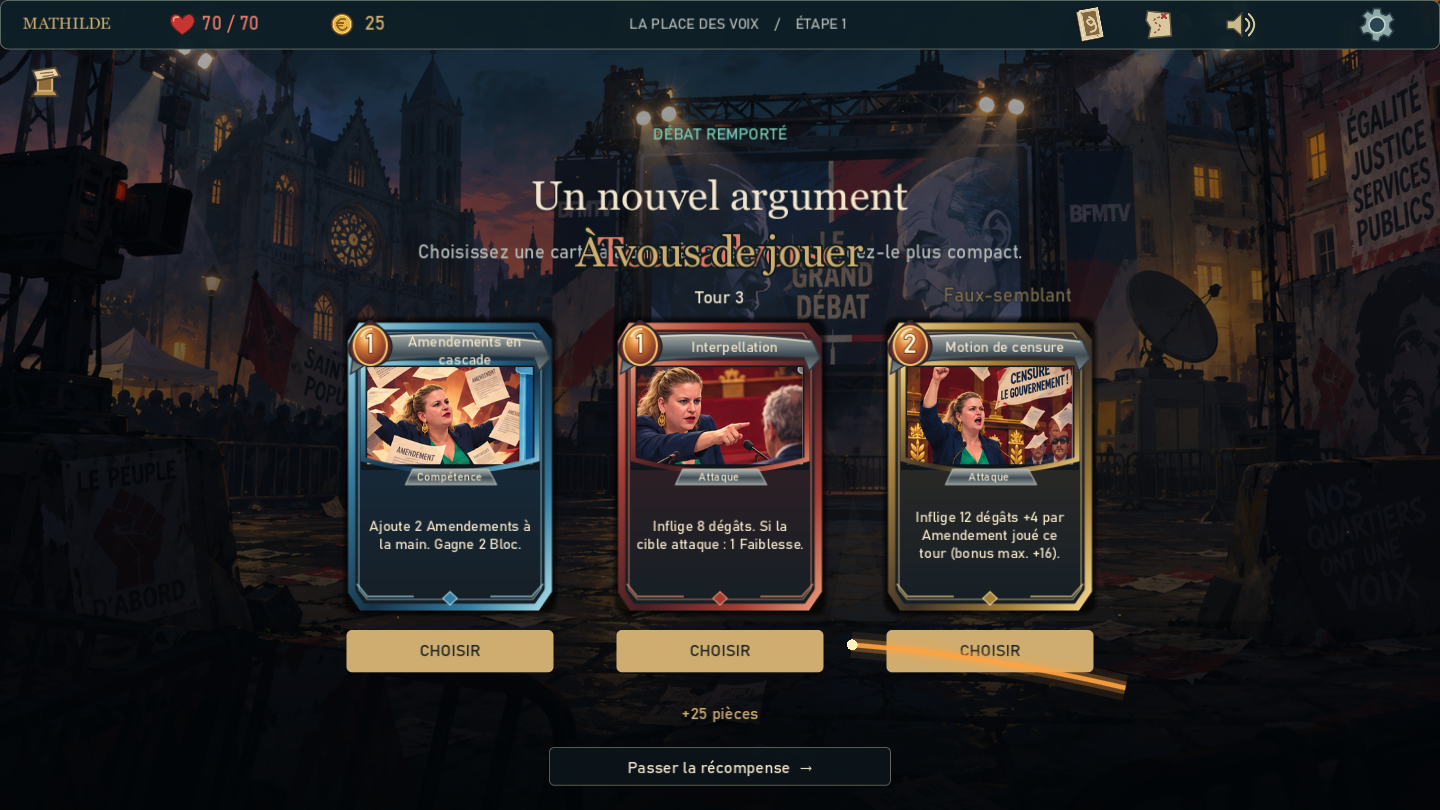
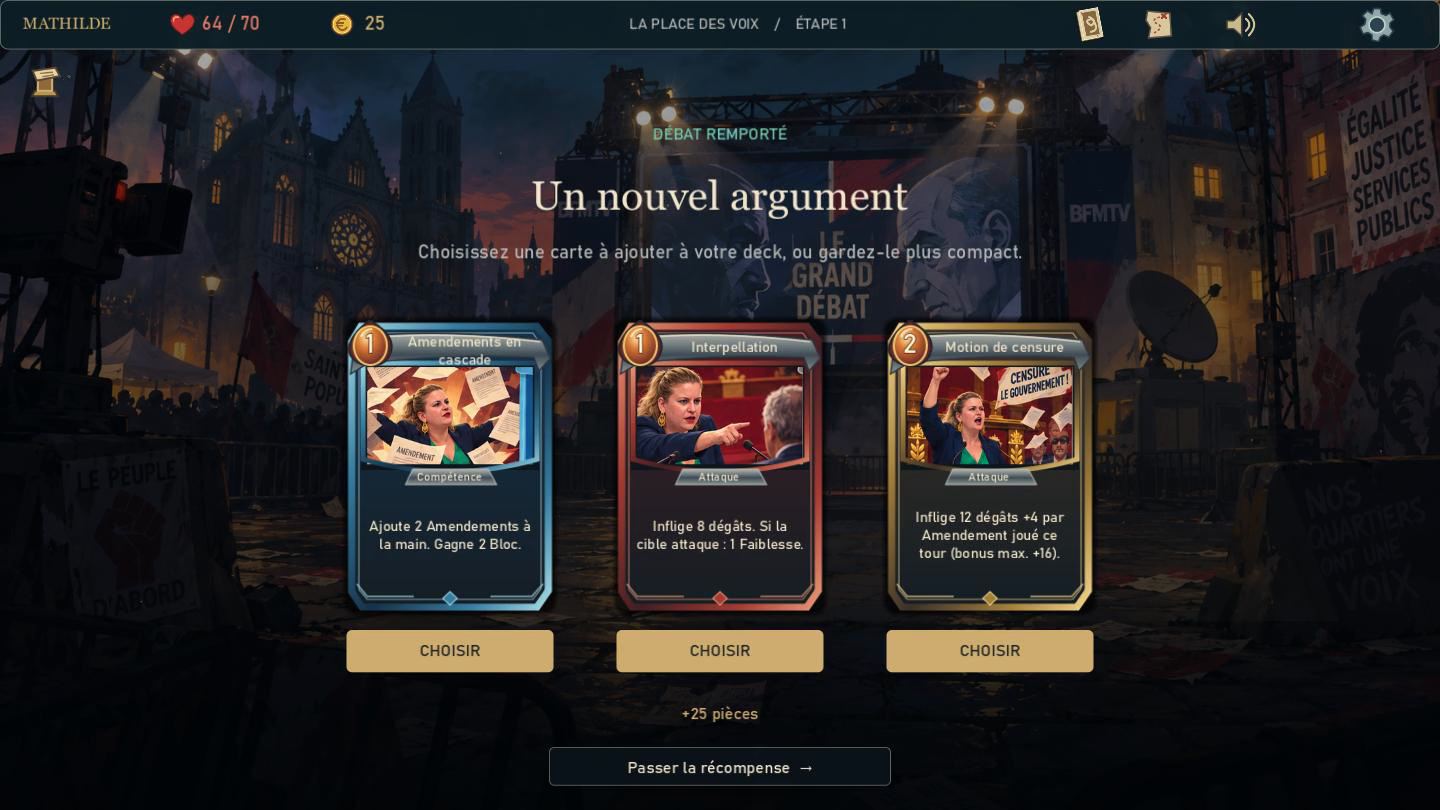
Adopter le titre Slay the Extreme Droite et ajouter le clip de presentation

diff --git a/tools/make_trailer.py b/tools/make_trailer.py
@@ -1,0 +1,109 @@
+"""Render a short game trailer from actual gameplay captures using FFmpeg."""
+from pathlib import Path
+import subprocess
+import shutil
+import os
+
+ROOT = Path(__file__).resolve().parent.parent
+OUT = ROOT / "build" / "trailer"
+OUT.mkdir(parents=True, exist_ok=True)
+for local_name, system_name in (("serif.ttf","georgiab.ttf"),("sans.ttf","bahnschrift.ttf")):
+    font = OUT / local_name
+    if not font.exists():
+        shutil.copyfile(Path(os.environ.get("WINDIR","C:/Windows")) / "Fonts" / system_name, font)
+FFMPEG = shutil.which("ffmpeg") or r"C:\ffmpeg\bin\ffmpeg.exe"
+W, H, FPS = 1920, 1080, 30
+GOLD = "0xe9c88a"
+CREAM = "0xfff4dd"
+seq = 0
+
+def run(*args):
+    subprocess.run([FFMPEG, "-hide_banner", "-loglevel", "error", "-y", *map(str,args)], cwd=ROOT, check=True)
+
+def text(content, y, size=44, color=CREAM, font="sans", x="(w-text_w)/2"):
+    global seq
+    seq += 1
+    p = OUT / f"text-{seq}.txt"
+    p.write_text(content, encoding="utf-8")
+    return f"drawtext=fontfile=build/trailer/{font}.ttf:textfile=build/trailer/{p.name}:fontsize={size}:fontcolor={color}:x={x}:y={y}:shadowcolor=black@0.8:shadowx=2:shadowy=3"
+
+def header(title):
+    return [
+        "drawbox=x=0:y=0:w=iw:h=88:color=0x08131b@0.94:t=fill",
+        "drawbox=x=62:y=30:w=5:h=29:color="+GOLD+":t=fill",
+        text(title,25,33,GOLD,x="88"),
+        "drawbox=x=0:y=1022:w=iw:h=58:color=0x08131b@0.94:t=fill",
+        text("SLAY THE EXTRÊME DROITE",1040,19,x="62"),
+        text("IMAGES DE LA DÉMO  ·  EN DÉVELOPPEMENT",1040,18,"0xb7c2c3",x="w-text_w-62")
+    ]
+
+def segment(index, source, start, duration, filters, still=False, zoom=False):
+    name=OUT/f"segment-{index:02}.mp4"
+    inp=["-loop","1","-framerate",str(FPS),"-i",str(source)] if still else ["-ss",str(start),"-i",str(source)]
+    f=[f"scale={W}:{H}:force_original_aspect_ratio=increase",f"crop={W}:{H}","setsar=1",f"fps={FPS}"]
+    if zoom:
+        f.append(f"zoompan=z='1+on*0.00024':x='iw/2-iw/zoom/2':y='ih/2-ih/zoom/2':d=1:s={W}x{H}:fps={FPS}")
+    f+=filters
+    run(*inp,"-t",duration,"-vf",",".join(f),"-an","-c:v","libx264","-preset","fast","-crf","20","-pix_fmt","yuv420p","-threads","4",name)
+    print(f"Rendered {name.name}: {duration}s",flush=True)
+    return name
+
+intro=[
+    "drawbox=x=0:y=0:w=iw:h=ih:color=0x06131b@0.58:t=fill",
+    text("UN JEU CONÇU PAR KINGRABBIT",195,29,GOLD),
+    text("SLAY THE",300,82,CREAM,"serif"),
+    text("EXTRÊME DROITE",410,118,CREAM,"serif"),
+    "drawbox=x=800:y=575:w=320:h=3:color="+GOLD+":t=fill",
+    text("PRENEZ LA PAROLE. JOUEZ VOS CARTES.",625,33,GOLD),
+    text("DÉMO JOUABLE  ·  EN DÉVELOPPEMENT",901,24,"0xc0ceca"),
+    "fade=t=in:st=0:d=0.35"
+]
+outro=[
+    "drawbox=x=0:y=0:w=iw:h=ih:color=0x06131b@0.76:t=fill",
+    text("SLAY THE EXTRÊME DROITE",205,76,CREAM,"serif"),
+    text("Un jeu conçu par kingrabbit",320,33,GOLD),
+    "drawbox=x=515:y=436:w=890:h=105:color=0xe9c88a:t=fill",
+    text("LA DÉMO EST DISPONIBLE",469,43,"0x14202a"),
+    text("WINDOWS  ·  TÉLÉCHARGEMENT SUR GITHUB",590,26,CREAM),
+    text("github.com/kingrabbit89/slay-the-extreme-droite",648,28,GOLD),
+    text("JEU EN DÉVELOPPEMENT",778,25,"0xbdccca"),
+    text("MUSIQUE  ·  PLANÈTE BRÛLÉE — PLANÈTE BOUM BOUM",921,25,CREAM),
+    "fade=t=out:st=4.0:d=0.5"
+]
+game=ROOT/"build/SlayTheExtremeDroite-combat-v02.mp4"
+clips=[
+    segment(0,ROOT/"demo/assets/grand-debat.png",0,2.8,intro,still=True,zoom=True),
+    segment(1,game,1.7,3.0,header("PRENEZ LA PAROLE")),
+    segment(2,game,4.9,3.0,header("ANTICIPEZ LA RIPOSTE")),
+    segment(3,game,13.8,3.2,header("ENCHAÎNEZ VOS ARGUMENTS")),
+    segment(4,game,27.0,2.0,header("FAITES TOMBER LES RUMEURS")),
+    segment(5,ROOT/"build/trailer/reward.png",0,2.3,header("CONSTRUISEZ VOTRE DECK"),still=True),
+    segment(6,ROOT/"build/trailer/boss.avi",1.25,4.2,header("AFFRONTEZ LA MACHINE À PEUR")),
+    segment(7,ROOT/"demo/assets/grand-debat.png",0,4.5,outro,still=True,zoom=True),
+]
+listing=OUT/"concat.txt"
+listing.write_text("".join(f"file '{p.name}'\n" for p in clips),encoding="utf-8")
+run("-f","concat","-safe","0","-i",listing,"-c","copy",OUT/"picture.mp4")
+final=ROOT/"build/SlayTheExtremeDroite-clip-v0.2.mp4"
+run("-i",OUT/"picture.mp4","-ss","20","-i",ROOT/"demo/assets/audio/planete-brulee.mp3",
+    "-map","0:v:0","-map","1:a:0","-t","25",
+    "-c:v","libx264","-preset","fast","-crf","20",
+    "-vf","format=yuv420p,setsar=1,setparams=range=limited:color_primaries=bt709:color_trc=bt709:colorspace=bt709",
+    "-af","loudnorm=I=-16:TP=-1.5:LRA=9,afade=t=in:st=0:d=0.35,afade=t=out:st=23.5:d=1.5",
+    "-c:a","aac","-b:a","192k","-ar","48000","-movflags","+faststart",
+    "-metadata","title=Slay the Extrême Droite — Clip de la démo",
+    "-metadata","artist=kingrabbit",
+    "-metadata","comment=Jeu en développement. Musique : Planète brûlée — Planète Boum Boum.",
+    final)
+run("-ss","1.8","-i",final,"-frames:v","1",ROOT/"docs/images/clip.jpg")
+preview = (
+    "[0:v]split=4[a][b][c][d];"
+    "[a]trim=start=0.5:end=1.7,setpts=PTS-STARTPTS[a1];"
+    "[b]trim=start=3:end=5,setpts=PTS-STARTPTS[b1];"
+    "[c]trim=start=17:end=19,setpts=PTS-STARTPTS[c1];"
+    "[d]trim=start=21:end=23.4,setpts=PTS-STARTPTS[d1];"
+    "[a1][b1][c1][d1]concat=n=4:v=1:a=0,fps=8,scale=540:-1:flags=lanczos,split[p][q];"
+    "[p]palettegen=stats_mode=diff[pal];[q][pal]paletteuse=dither=bayer:bayer_scale=3"
+)
+run("-i",final,"-filter_complex",preview,"-loop","0",ROOT/"docs/images/clip.gif")
+print(f"TRAILER_OK: {final.name}",flush=True)

diff --git a/tools/package_demo.py b/tools/package_demo.py
@@ -2,18 +2,18 @@ from pathlib import Path
 from zipfile import ZipFile, ZIP_DEFLATED
 
 root = Path(__file__).resolve().parent.parent
-source = root / "build" / "LaTribune"
-archive = root / "build" / "LaTribune-demo-v0.2-Windows.zip"
-guide = """SLAY THE EXTREME DROITE - LA TRIBUNE
+source = root / "build" / "SlayTheExtremeDroite"
+archive = root / "build" / "SlayTheExtremeDroite-demo-v0.2-Windows.zip"
+guide = """SLAY THE EXTREME DROITE
 Un jeu concu par kingrabbit
 Demo 0.2 - Windows 10/11, 64 bits
 
 DEMARRAGE
 1. Extraire tout le ZIP (clic droit > Extraire tout).
-2. Ouvrir le dossier LaTribune.
-3. Double-cliquer sur Jouer.cmd ou LaTribune.exe.
+2. Ouvrir le dossier SlayTheExtremeDroite.
+3. Double-cliquer sur Jouer.cmd ou SlayTheExtremeDroite.exe.
 
-Conserver LaTribune.exe, LaTribune.pck et tribune_godot.dll ensemble.
+Conserver SlayTheExtremeDroite.exe, SlayTheExtremeDroite.pck et tribune_godot.dll ensemble.
 Aucune installation de Godot, Rust ou Slay the Spire 2 n'est necessaire.
 Le jeu fonctionne hors ligne. La musique est incluse.
 
@@ -52,16 +52,16 @@ Le groupe : https://linktr.ee/planeteboumboum
 Credits complets et informations sur les ressources : dossier docs.
 """
 with ZipFile(archive, "w", ZIP_DEFLATED, compresslevel=6) as z:
-    for name in ("LaTribune.exe", "LaTribune.pck", "tribune_godot.dll"):
-        z.write(source / name, "LaTribune/" + name)
+    for name in ("SlayTheExtremeDroite.exe", "SlayTheExtremeDroite.pck", "tribune_godot.dll"):
+        z.write(source / name, "SlayTheExtremeDroite/" + name)
     for p in sorted((source / "docs").rglob("*")):
-        if p.is_file():
-            z.write(p, "LaTribune/" + p.relative_to(source).as_posix())
-    z.writestr("LaTribune/Jouer.cmd", '@echo off\r\ncd /d "%~dp0"\r\nstart "" "%~dp0LaTribune.exe"\r\n')
-    z.writestr("LaTribune/LIRE-MOI.txt", guide.replace("\n", "\r\n").encode("utf-8-sig"))
+        if p.is_file() and "images" not in p.relative_to(source).parts:
+            z.write(p, "SlayTheExtremeDroite/" + p.relative_to(source).as_posix())
+    z.writestr("SlayTheExtremeDroite/Jouer.cmd", '@echo off\r\ncd /d "%~dp0"\r\nstart "" "%~dp0SlayTheExtremeDroite.exe"\r\n')
+    z.writestr("SlayTheExtremeDroite/LIRE-MOI.txt", guide.replace("\n", "\r\n").encode("utf-8-sig"))
 with ZipFile(archive) as z:
     assert z.testzip() is None
     assert not any("/saves/" in n or ".." in Path(n).parts for n in z.namelist())
-    assert len(z.read("LaTribune/LaTribune.pck")) == (source / "LaTribune.pck").stat().st_size
+    assert len(z.read("SlayTheExtremeDroite/SlayTheExtremeDroite.pck")) == (source / "SlayTheExtremeDroite.pck").stat().st_size
     print(f"Archive verified: {archive.name}, {archive.stat().st_size:,} bytes, {len(z.namelist())} files")
     z.extractall(root / "build" / "package-check-v02")

diff --git a/README.md b/README.md
@@ -1,7 +1,6 @@
 <div align="center">
 
 # Slay the Extrême Droite
-### La Tribune
 
 **Un jeu conçu par kingrabbit**
 
@@ -9,9 +8,11 @@ Un deckbuilder politique et satirique : prenez la parole, enchaînez les argumen
 
 **🚧 En développement · Démo jouable v0.2 · Windows 64 bits**
 
-[**🎮 Télécharger la démo**](https://github.com/kingrabbit89/slay-the-extreme-droite/releases/download/v0.2.0/LaTribune-demo-v0.2-Windows.zip) · [**🎬 Voir un combat**](https://github.com/kingrabbit89/slay-the-extreme-droite/releases/download/v0.2.0/LaTribune-combat-v02.mp4) · [**💬 Faire un retour**](https://github.com/kingrabbit89/slay-the-extreme-droite/issues/new/choose)
+[**🎮 Télécharger la démo**](https://github.com/kingrabbit89/slay-the-extreme-droite/releases/download/v0.2.0/SlayTheExtremeDroite-demo-v0.2-Windows.zip) · [**🎬 Voir le clip**](https://github.com/kingrabbit89/slay-the-extreme-droite/releases/download/v0.2.0/SlayTheExtremeDroite-clip-v0.2.mp4) · [**💬 Faire un retour**](https://github.com/kingrabbit89/slay-the-extreme-droite/issues/new/choose)
 
-![Écran titre de Slay the Extrême Droite — La Tribune](docs/images/titre.png)
+[![Aperçu animé de Slay the Extrême Droite — cliquez pour voir le clip avec la musique](docs/images/clip.gif)](https://github.com/kingrabbit89/slay-the-extreme-droite/releases/download/v0.2.0/SlayTheExtremeDroite-clip-v0.2.mp4)
+
+**Cliquez sur l'aperçu pour voir le clip complet : 25 secondes, avec la musique.**
 
 </div>
 
@@ -25,11 +26,11 @@ Un colporteur de rumeurs, un plateau hostile, une halte pour reprendre son souff
 
 ## Essayez la démo
 
-**[Télécharger la démo Windows v0.2 — environ 46 Mo](https://github.com/kingrabbit89/slay-the-extreme-droite/releases/download/v0.2.0/LaTribune-demo-v0.2-Windows.zip)**
+**[Télécharger la démo Windows v0.2 — environ 46 Mo](https://github.com/kingrabbit89/slay-the-extreme-droite/releases/download/v0.2.0/SlayTheExtremeDroite-demo-v0.2-Windows.zip)**
 
 1. Téléchargez le ZIP dans la [release v0.2](https://github.com/kingrabbit89/slay-the-extreme-droite/releases/tag/v0.2.0).
 2. Faites **Extraire tout**.
-3. Ouvrez le dossier **LaTribune**, puis lancez **Jouer.cmd** ou **LaTribune.exe**.
+3. Ouvrez le dossier **SlayTheExtremeDroite**, puis lancez **Jouer.cmd** ou **SlayTheExtremeDroite.exe**.
 
 Conservez les fichiers ensemble. Le jeu est autonome et fonctionne hors ligne : aucune installation de Godot, Rust ou Slay the Spire 2 n'est nécessaire. La musique est incluse.
 
@@ -49,9 +50,9 @@ Conservez les fichiers ensemble. Le jeu est autonome et fonctionne hors ligne : 
 | :---: | :---: |
 | ![Carte jouée et impact sur l'adversaire](docs/images/attaque.png) | ![Choix entre trois cartes après un combat](docs/images/recompense.png) |
 
-**[Regarder 31 secondes de combat réel, avec le son](https://github.com/kingrabbit89/slay-the-extreme-droite/releases/download/v0.2.0/LaTribune-combat-v02.mp4)**
+**[Regarder 31 secondes de combat réel, avec le son](https://github.com/kingrabbit89/slay-the-extreme-droite/releases/download/v0.2.0/SlayTheExtremeDroite-combat-v02.mp4)**
 
-Toutes les images ci-dessus sont des captures de la démo jouable.
+Les captures de jeu ci-dessus proviennent de la démo jouable.
 
 ## Comment jouer
 

diff --git a/docs/VALIDATION.md b/docs/VALIDATION.md
@@ -1,10 +1,12 @@
 # Vérifications de la V0.2
 
+Le 24 octobre, l'export renommé `SlayTheExtremeDroite.exe` passe le même test intégré jusqu'à la victoire. Le clip de présentation dure 25 secondes, en H.264/AAC, 1920 × 1080 à 30 i/s. Les plans de combat sont issus du jeu ; les écrans d'ouverture et de fin sont des titres de montage. Le boss est enregistré depuis la scène réelle avec `demo/tests/capture_boss.gd`, sans utiliser de sauvegarde personnelle.
+
 Vérifications effectuées le 23 octobre 2026 sous Windows x64, Godot 4.5 stable et Rust 1.99.1, sur une GeForce GTX 1660 Ti en OpenGL 3.3.
 
 Mise à jour du 24 octobre : nouvelle interface, animations de combat et musique MP3. Les 19 tests Rust passent toujours. Le test graphique étendu passe dans le projet puis dans l'exécutable Windows exporté : sélection à la souris, attaque et PV, défense et Bloc, tour ennemi, défausse et pioche, agrandissement d'une carte par événement de souris, mode mouvements réduits, chargement/lecture/boucle du MP3, fenêtre des volumes, puis parcours complet jusqu'à la victoire. Code de sortie 0 et marqueur `UI_SMOKE_OK`.
 
-Captures supplémentaires examinées : impact, bouclier, distribution en mouvement, carte au survol et réglages audio. Une partie du premier combat est enregistrée avec le mode Movie Maker de Godot, jusqu'à sa récompense : `build/LaTribune-combat-v02.mp4`, 31,4 secondes, 1440 × 810 à 30 i/s, avec la musique et les bruitages du jeu. Les séquences ont été inspectées en planches de frames. La copie intégrée de Planète brûlée a le même SHA-256 que le fichier fourni.
+Captures supplémentaires examinées : impact, bouclier, distribution en mouvement, carte au survol et réglages audio. Une partie du premier combat est enregistrée avec le mode Movie Maker de Godot, jusqu'à sa récompense : `build/SlayTheExtremeDroite-combat-v02.mp4`, 31,4 secondes, 1440 × 810 à 30 i/s, avec la musique et les bruitages du jeu. Les séquences ont été inspectées en planches de frames. La copie intégrée de Planète brûlée a le même SHA-256 que le fichier fourni.
 
 ## Moteur Rust
 

diff --git a/docs/DEVELOPPEMENT.md b/docs/DEVELOPPEMENT.md
@@ -1,10 +1,10 @@
-# Slay the Extrême Droite — La Tribune
+# Slay the Extrême Droite
 
 Démo autonome Windows, version 0.2. Godot 4.5 pour la présentation, Rust pour toutes les règles de jeu. Aucune installation de Slay the Spire 2 n'est nécessaire.
 
 ## Jouer
 
-Double-cliquer sur **Jouer.cmd** à la racine du projet, ou sur **build/LaTribune/LaTribune.exe**. Conserver l'exécutable, le fichier `.pck` et la DLL dans le même dossier. Aucun compte, serveur ou accès Internet nécessaire.
+Double-cliquer sur **Jouer.cmd** à la racine du projet, ou sur **build/SlayTheExtremeDroite/SlayTheExtremeDroite.exe**. Conserver l'exécutable, le fichier `.pck` et la DLL dans le même dossier. Aucun compte, serveur ou accès Internet nécessaire.
 
 - Cliquer sur une carte Attaque, puis sur l'adversaire.
 - Les Compétences se jouent directement ; les effets demandant un choix ouvrent une sélection.

diff --git a/docs/CREDITS.md b/docs/CREDITS.md
@@ -1,6 +1,6 @@
 # Crédits
 
-**Slay the Extrême Droite — La Tribune est un jeu conçu par kingrabbit.**
+**Slay the Extrême Droite est un jeu conçu par kingrabbit.**
 
 - Conception et direction du projet : **kingrabbit**.
 - Développement : Godot et Rust, avec assistance de Codex.
